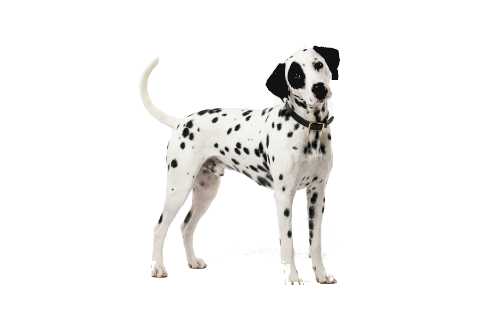
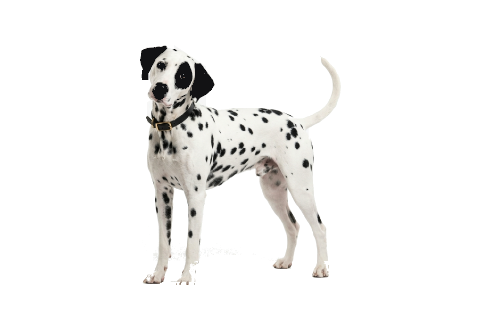
Fix Patch left stop pose orientation to face left and eliminate neck background artifact

Changed region(s): [[0.2812, 0.125, 0.7188, 0.9062]]

diff --git a/assets/js/dalmatian-guardians.js b/assets/js/dalmatian-guardians.js
@@ -36,7 +36,7 @@
       this.lastTimestamp = 0;
 
       // Cache buster for ultra-clear high-DPI assets
-      const v = 'v=crystal_clear_sandy_facing_v18';
+      const v = 'v=crystal_clear_patch_facing_v19';
 
       // Load 6-frame running sequences
       // Patch has anatomically separate sequences: right-facing (right eye patch) and left-facing (no eye patch)
